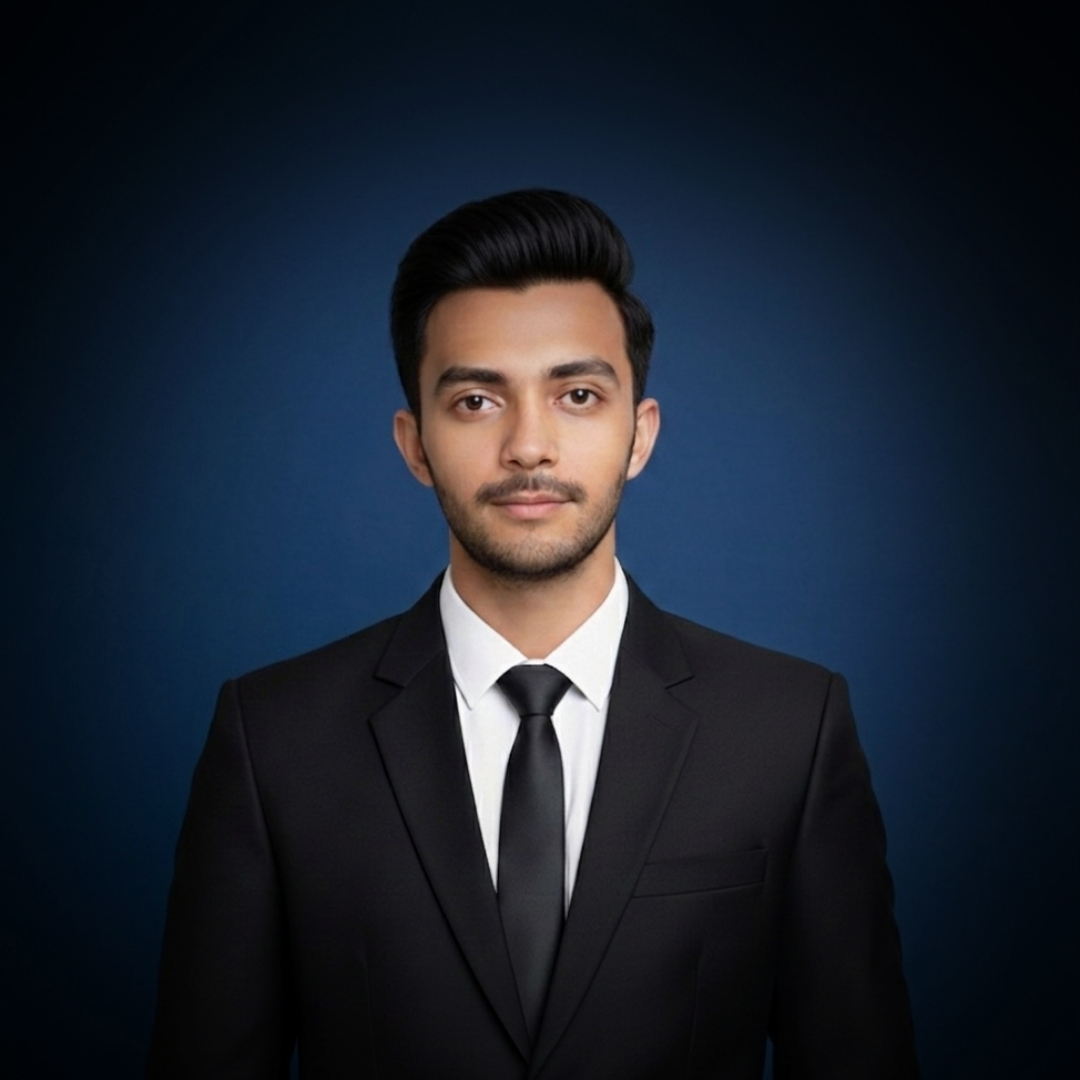
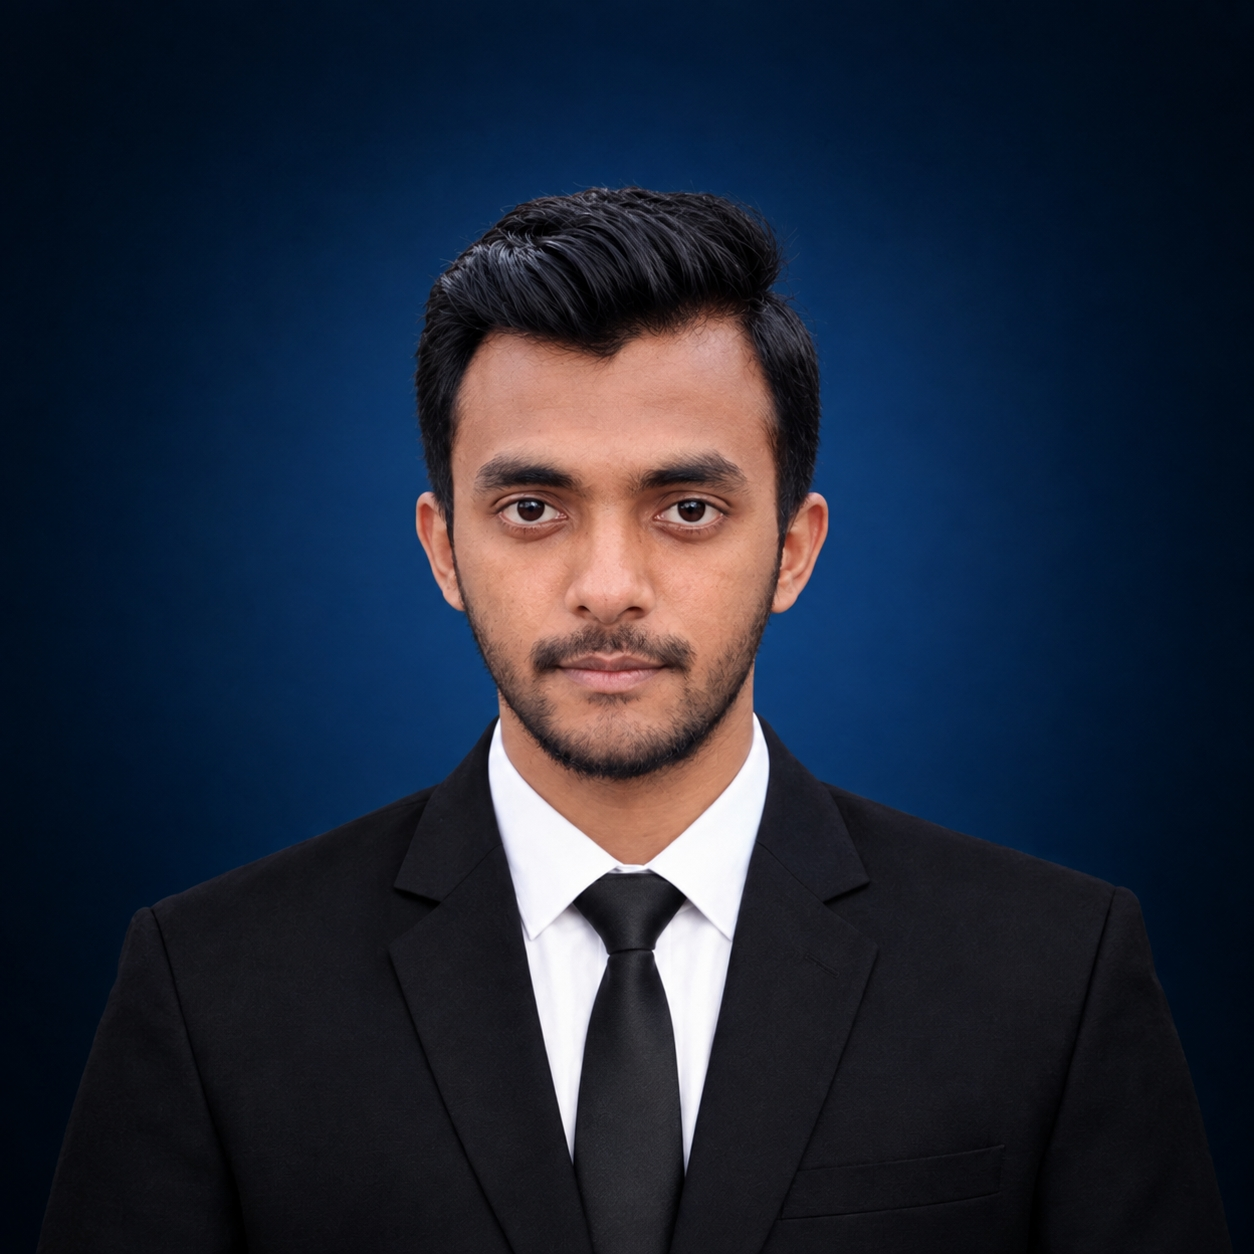
update seme ui

diff --git a/src/components/shared/Navbar/Navbar.jsx b/src/components/shared/Navbar/Navbar.jsx
@@ -45,7 +45,9 @@ const Navbar = () => {
                     onClick={() => setIsOpen(!isOpen)}
                 >
                     <svg
-                        className="w-6 h-6"
+                        className={`w-6 h-6 transition-transform duration-300 ease-in-out ${
+            isOpen ? "rotate-90" : "rotate-0"
+        }`}
                         fill="none"
                         stroke="currentColor"
                         viewBox="0 0 24 24"
@@ -69,7 +71,10 @@ const Navbar = () => {
                 </button>
             </div>
             <div
-                className={`${isOpen ? "block" : "hidden"} md:hidden mt-4 space-y-4 pb-4`}
+                className={`${
+                    isOpen ? 
+                    "block" : 
+                    "hidden"} md:hidden mt-4 space-y-4 pb-4`}
             >
                 {navLinks.map((navItem) => (
 
@@ -78,9 +83,9 @@ const Navbar = () => {
                         onClick={() => {
                             setActiveLink(navItem.name);
                             setIsOpen(false);
-                        }} className={`block hover:bg-blue-700 px-2 py-1 ${activeLink === navItem.name
+                        }} className={`block hover:bg-blue-600 px-2 py-1 ${activeLink === navItem.name
                             ? "text-blue-500 border-b-2 border-blue-500"
-                            : "text-gray-400 hover:text-blue-400"
+                            : "text-gray-400 hover:text-white transition-all"
                             }`}>
                         {navItem.name}
                     </Link>

diff --git a/src/components/shared/About/About.jsx b/src/components/shared/About/About.jsx
@@ -18,7 +18,7 @@ const About = () => {
           <h2 className="text-3xl font-bold mb-4 text-blue-400">About Me</h2>
 
           <p className="text-gray-400 mb-4 text-xl">
-            I'm a MERN Stack Developer from Bangladesh passionate about building modern and user-friendly web applications. I work with React, Next.js, TypeScript, Node.js, Express.js and MongoDB to develop responsive frontend experiences and scalable backend solutions. <br /> <br />
+            I'm a Junior Full Stack Developer from Bangladesh about building modern and user-friendly web applications. I work with React, Next.js, TypeScript, Node.js, Express.js and MongoDB to develop responsive frontend experiences and scalable backend solutions. <br /> <br />
             I've worked on both personal and team-based projects, including Fitora, where I collaborated with a team to build real-world fitness management features. I enjoy solving problems, learning new technologies and turning ideas into functional products.
           </p>
         </motion.div>
@@ -46,7 +46,7 @@ const About = () => {
               />
             </div>
             <h2 className="text-center font-bold text-xl pt-2">Gazi Md Salauddin</h2>
-            <p className="text-center text-blue-500">MERN Stack Developer</p>
+            <p className="text-center text-blue-500">Junior Full Stack Developer</p>
           </div>
           <div className="grid grid-cols-2 md:grid-cols-3 gap-2 pt-4">
             <div className="bg-white/5 border border-white/10 p-8 rounded-xl items-center text-center">

diff --git a/src/components/shared/Education/Education.jsx b/src/components/shared/Education/Education.jsx
@@ -4,6 +4,13 @@ import { motion } from "framer-motion";
 const Education = () => {
   const educationData = [
     {
+      degree: "Complete Web Development Course",
+      institute: "Programming Hero",
+      year: "01 January, 2026 - 01 August, 2026",
+      description:
+        "Successfully completing the Complete Web Development Course with Programming Hero",
+    },
+    {
       degree: "B.A. (Honours) in Bangla",
       institute: "Shaistaganj Degree College (Affiliated with National University)",
       year: "2025 - Present",
@@ -56,7 +63,7 @@ const Education = () => {
               className="relative pl-10"
             >
               {/* DOT */}
-              <div className="absolute -left-[11px] top-2 w-5 h-5 rounded-full bg-blue-500 shadow-[0_0_20px_rgba(59,130,246,0.7)]" />
+              <div className="absolute -left-2.75 top-2 w-5 h-5 rounded-full bg-blue-500 shadow-[0_0_20px_rgba(59,130,246,0.7)]" />
 
               {/* CARD */}
               <div className="bg-white/5 border border-white/10 backdrop-blur-xl rounded-2xl p-6 mr-6 hover:border-blue-500/30 transition-all duration-300 hover:shadow-[0_0_30px_rgba(59,130,246,0.15)]">

diff --git a/src/components/shared/Skills/Skills.jsx b/src/components/shared/Skills/Skills.jsx
@@ -77,7 +77,7 @@ const Skills = () => {
       <div className="text-center mb-12">
       <p className="text-blue-400 text-sm lg:text-xl uppercase mb-4">Skills</p>
       <h2 className="text-3xl md:text-4xl lg:text-5xl font-bold">Modern Technologies & Tools</h2>
-      <p className=" max-w-xl mx-auto text-gray-400 py-6">I work with modern technologies and tools to build responsive, scalable, and user-friendly web applications.</p>
+      <p className=" max-w-xl mx-auto text-gray-400 py-6 px-4">I work with modern technologies and tools to build responsive, scalable, and user-friendly web applications.</p>
       </div>
 
       <div className="grid grid-cols-1 md:grid-cols-2 lg:grid-cols-4 gap-5 px-6">

diff --git a/src/components/shared/Footer/Footer.jsx b/src/components/shared/Footer/Footer.jsx
@@ -1,6 +1,6 @@
 "use client";
 import Link from 'next/link'
-import { FaGithub, FaLinkedin, FaFacebook, FaInstagram } from "react-icons/fa";
+import { FaGithub, FaLinkedin, FaFacebook } from "react-icons/fa";
 
 const Footer = () => {
     return (
@@ -19,7 +19,7 @@ const Footer = () => {
                         </h2>
 
                         <p className="text-gray-400 mt-3 max-w-sm leading-relaxed">
-                            Frontend Developer focused on building modern,
+                            Junior Full Stack Developer focused on building modern,
                             responsive and high-performance web experiences.
                         </p>
                     </div>

diff --git a/src/components/shared/Hero/Hero.jsx b/src/components/shared/Hero/Hero.jsx
@@ -47,9 +47,11 @@ const Hero = () => {
                             sequence={[
                                 "Frontend Developer",
                                 1000,
+                                "Backend Developer",
+                                1000,
                                 "MERN Stack Developer",
                                 1000,
-                                "Web Developer",
+                                "Junior Full Stack Developer",
                                 1000
                             ]}
                             wrapper="span"

diff --git a/src/components/shared/Contact/Contact.jsx b/src/components/shared/Contact/Contact.jsx
@@ -75,7 +75,7 @@ const Contact = () => {
                                     <p className="text-xs text-muted-foreground uppercase tracking-widest">
                                         Location
                                     </p>
-                                    <p className="font-semibold">Habiganj sadar, Sylhet, Bangladesh</p>
+                                    <p className="font-semibold">Habiganj, Bangladesh</p>
                                 </div>
                             </div>
                         </div>

diff --git a/src/components/shared/Projects/ProjectCard.jsx b/src/components/shared/Projects/ProjectCard.jsx
@@ -81,7 +81,7 @@ const ProjectCard = () => {
                 {project.subtitle}
               </p>
 
-              <div className="flex gap-2 mt-4">
+              <div className="flex gap-2">
                 <Link href={`/all-projects/${project.id}`} className="flex items-center gap-2 bg-blue-500 rounded-lg p-2">View Details<FaArrowRight/></Link>
               </div>
 
